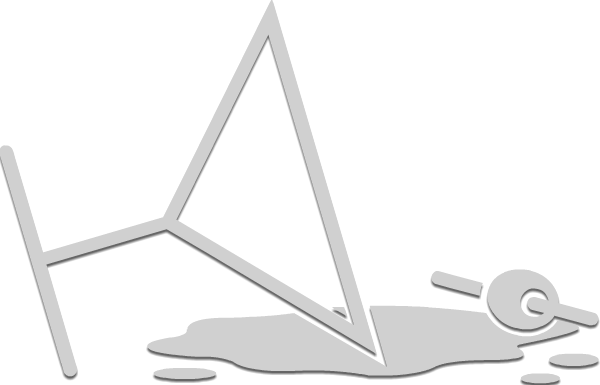
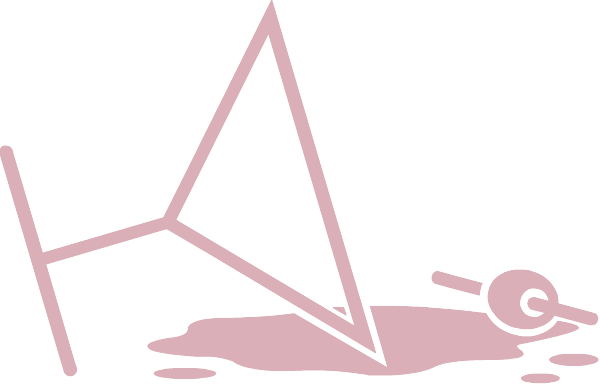
Add files via upload

Changed region(s): [[0.0, 0.0, 1.0, 1.0]]

diff --git a/static/styles3.css b/static/styles3.css
@@ -1,119 +1,106 @@
+/* Estilos generales */
 body {
+    font-family: Arial, sans-serif;
     margin: 0;
     padding: 0;
-    background-color: #202020;
+    background-color: #121212;
     color: #edeff2;
-    font-family: "Arial", sans-serif;
     overflow: hidden;
-}
-
-.container {
-    display: flex;
-    flex-direction: column;
-    align-items: center;
-    justify-content: center;
-    height: 100vh;
-    position: relative;
-}
-
-.centered-wrapper {
-    display: flex;
-    align-items: center;
-    justify-content: center;
-}
-
-.large-rectangle {
-    width: 730px;
-    height: 565px;
-    background-color: #452f33;
-    box-shadow: 0 2px 4px rgba(0, 0, 0, 0.5);
-    border-radius: 10px;
+  }
+  
+  .container {
+    max-width: 100vw;
+    min-height: 200px;
     margin: 0 auto;
-    position: absolute;
-    top: 50%;
-    left: 50%;
-    transform: translate(-50%, -50%);
-    z-index: 1;
-}
-
-.barra-superior {
-    width: 730px;
-    height: 130px;
-    background-color: #853449;
-    box-shadow: 0 4px 7px rgba(0, 0, 0, 0.1);
-    position: absolute;
-    top: calc(50% - 292.5px);
-    left: 50%;
-    transform: translateX(-50%);
-    z-index: 2;
-    display: flex;
-    align-items: center;
-    justify-content: center;
-}
-
-.logo {
+  }
+  
+  .barra-superior {
+    width: 100vw;
+    height: 18vh;
+    background-color: #5D3F44;
+    background-image: url('./nombre.png');
+    background-repeat: no-repeat;
+    background-size: contain;
+    background-position: center;
+    background-size: 50vh;
+  }
+  
+  .logo {
     width: 359px;
     height: 111px;
-}
-
-.input-wrapper {
+  }
+  
+  .input-wrapper {
+    width: 100%; /* Aprovecha el ancho total */
     position: absolute;
-    top: 50%;
+    bottom: 8vh; /* Coloca en la parte inferior con margen */
     left: 50%;
-    transform: translate(-50%, 350%);
+    transform: translateX(-50%);
     z-index: 4;
-}
-
-.input-consulta {
-    width: 425px;
-    height: 30px;
+    display: flex;
+    align-items: center;
+    justify-content: center;
+  }
+  
+  .input-consulta {
+    width: 50vw; /* Reduzco el ancho para dejar espacio al botón */
+    height: 6vh;
     padding: 10px;
-    background-color: #6a4a50;
-    color: #edeff2;
+    background-color: transparent;
     text-shadow: 0px 2px 0px rgba(0, 4, 0, 0.5);
-    font-size: 20px;
+    font-size: 2vw;
     box-shadow: 0 2px 4px rgba(0, 0, 0, 0.5);
     text-align: left;
+    color: #B13157;
     border: none;
-}
+    border-radius: 1.5vw;
+    border: 2px solid #B13157;
+    outline: none;
+  }
 
 .input-consulta::placeholder {
-    color: #edeff2;
-    font-size: 20px;
-    margin: 10px;
-}
+    color: #B13157;
+    font-size: 2vw;
+  }
+  
+  .input-consulta::selection {
+    background-color: #B13157;
+    color: #121212;
+  }
 
-.enter-button {
+  .enter-button {
     position: absolute;
     top: 50%;
-    right: 10px;
+    right: 26vw;
     transform: translateY(-50%);
-    width: 40px;
-    height: 40px;
-    background-image: url('./wglass.png');
+    width: 3vw;
+    height: 70%;
+    background-color: transparent;
+    background-image: url('./glass (3).png');
     background-repeat: no-repeat;
-    background-color: #6a4a50;
     background-size: contain;
+    background-position: center;
     border: none;
     cursor: pointer;
-}
-
-.no-trago {
+  }
+  
+  .no-trago {
     display: flex;
     flex-direction: column;
     align-items: center;
-    margin-top: 60px;
+    margin-top: 5vh;
     z-index: 3;
-}
-
-.no-trago img {
-    width: 350px;
-}
-
-.no-trago p {
-    margin-top: 25px;
-    font-size: 25px;
-    color: #d0d0d0;
+    
+  }
+  
+  .no-trago img {
+    width: 70vh;
+  }
+  
+  .no-trago p {
+    margin-top: 5vh;
+    font-size: 2vw;
+    color: #DBAFB8;
     text-shadow: 0px 2px 2px rgba(0, 0, 0, 0.6);
-}
-
+  }
+  
